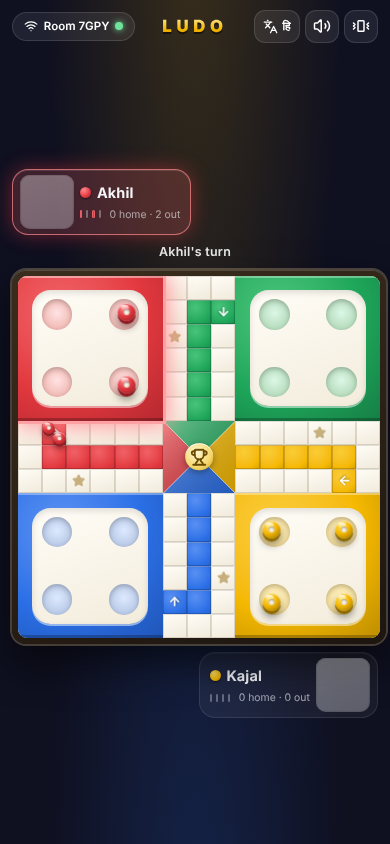
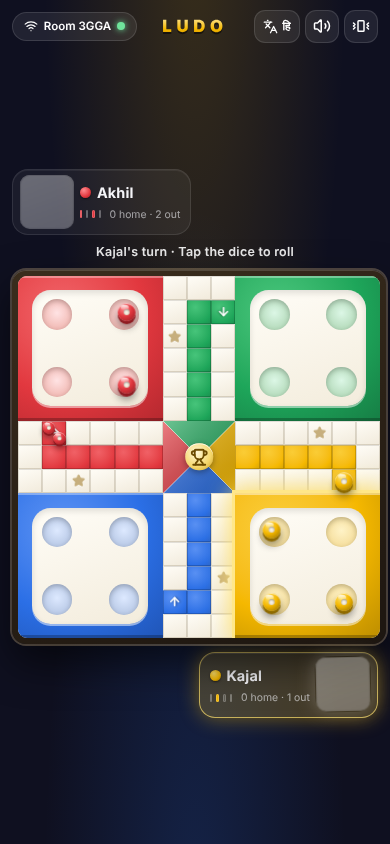
feat: join a friend's room from the app by host address
The app serves its own page from its own server, so a plain room code only
reaches rooms hosted on the same device. The LAN section now shows a host
address field when served locally; joining navigates to the host's server
(http://<ip>:7878/?room=CODE&name=...) which auto-joins on load. A hint explains
this when a join fails locally. lan-check covers the flow with a second server.

Claude-Session: https://claude.ai/code/session_013hCGS2KGtQcJGiiJ6uYKck

Changed region(s): [[0.0, 0.1848, 0.7692, 0.5237], [0.4923, 0.5545, 1.0, 0.8626], [0.2154, 0.0, 0.2769, 0.0616]]

diff --git a/ui/src/components/screens/SetupScreen.vue b/ui/src/components/screens/SetupScreen.vue
@@ -1,12 +1,12 @@
 <script setup lang="ts">
-import { computed, reactive, ref } from 'vue'
+import { computed, onMounted, reactive, ref } from 'vue'
 import { Bot, Languages, LogIn, Play, RotateCcw, User, Users, Wifi } from 'lucide-vue-next'
 import { COLORS, type NewPlayerSpec, type PlayerColor } from '@/engine'
 import { colorVars } from '@/utils/colors'
 import { useSettingsStore } from '@/stores/settings'
 import { useI18n } from '@/i18n'
 
-const props = defineProps<{ canResume: boolean; rejoinCode?: string; prefillRoom?: string; lanError?: string }>()
+const props = defineProps<{ canResume: boolean; rejoinCode?: string; prefillRoom?: string; prefillName?: string; lanError?: string }>()
 const emit = defineEmits<{
   start: [players: NewPlayerSpec[]]
   resume: []
@@ -28,9 +28,42 @@ const seatsFor: Record<number, PlayerColor[]> = {
 const seats = computed(() => seatsFor[count.value])
 
 const names = reactive<Record<PlayerColor, string>>({ red: '', green: '', yellow: '', blue: '' })
-const lanName = ref('')
+const lanName = ref(props.prefillName ?? '')
 const lanCode = ref(props.prefillRoom ?? '')
+const hostAddr = ref('')
 const canJoin = computed(() => lanCode.value.trim().length === 4)
+/** The Tauri app and `cargo run` serve from this device; a friend's room lives on *their* server. */
+const servedLocally = /^(127\.0\.0\.1|localhost|\[::1\])$/.test(location.hostname)
+
+/**
+ * Joining a room that lives on another phone means loading that phone's page.
+ * Accepts "192.168.43.1", "192.168.43.1:7878" or a full URL pasted from the QR.
+ */
+function join() {
+  const code = lanCode.value.trim().toUpperCase()
+  const addr = hostAddr.value.trim()
+  if (addr) {
+    const withScheme = /^https?:\/\//i.test(addr) ? addr : `http://${addr}`
+    try {
+      const u = new URL(withScheme)
+      if (!u.port && !/^https?:\/\/[^/]+:\d+/.test(withScheme)) u.port = '7878'
+      if (u.origin !== location.origin) {
+        u.pathname = '/'
+        u.search = `?room=${code}&name=${encodeURIComponent(lanName.value)}`
+        location.href = u.toString()
+        return
+      }
+    } catch {
+      /* fall through and try the local server */
+    }
+  }
+  emit('join', code, lanName.value)
+}
+
+onMounted(() => {
+  // Arrived via a host's QR/link with a name already chosen: join straight away.
+  if (props.prefillRoom && props.prefillName) emit('join', props.prefillRoom, props.prefillName)
+})
 const bots = reactive<Record<PlayerColor, boolean>>({ red: false, green: false, yellow: false, blue: false })
 
 function start() {
@@ -112,18 +145,33 @@ function start() {
           class="lan__btn"
           :disabled="!canJoin"
           data-action="lan-join"
-          @click="emit('join', lanCode, lanName)"
+          @click="join"
         >
           <LogIn :size="15" />
           {{ t('joinRoom') }}
         </button>
       </div>
+      <input
+        v-if="servedLocally"
+        v-model.trim="hostAddr"
+        class="lan__input"
+        :placeholder="t('hostAddress')"
+        inputmode="url"
+        data-lan-host
+        autocomplete="off"
+      >
       <p
         v-if="props.lanError"
         class="lan__error"
         data-lan-error
       >
         {{ t('lanError', { message: props.lanError }) }}
+      </p>
+      <p
+        v-if="servedLocally && (props.lanError || !hostAddr)"
+        class="lan__hint"
+      >
+        {{ t('joinLocalHint') }}
       </p>
     </div>
 
@@ -411,6 +459,12 @@ function start() {
   margin: 0;
   font-size: 0.75rem;
   color: #ff8a8e;
+}
+.lan__hint {
+  margin: 0;
+  font-size: 0.72rem;
+  line-height: 1.35;
+  opacity: 0.75;
 }
 .chk {
   display: flex;

diff --git a/ui/src/i18n/index.ts b/ui/src/i18n/index.ts
@@ -67,6 +67,8 @@ const en = {
   needTwo: 'Need at least 2 players',
   hostOnly: 'Only the host can start',
   lanError: 'Could not join: {message}',
+  hostAddress: 'Host address (shown under the QR)',
+  joinLocalHint: 'This app runs its own server. To join a friend\'s room, enter the address shown under their QR, or scan their QR with the camera.',
   ipUnknown: 'Could not detect this phone\'s Wi-Fi address. Find it under Wi-Fi / hotspot settings and share http://<ip>:7878 with the room code.',
 }
 
@@ -137,6 +139,8 @@ const hi: Record<I18nKey, string> = {
   needTwo: 'कम से कम 2 खिलाड़ी चाहिए',
   hostOnly: 'सिर्फ होस्ट शुरू कर सकता है',
   lanError: 'जुड़ नहीं पाए: {message}',
+  hostAddress: 'होस्ट का पता (QR के नीचे लिखा)',
+  joinLocalHint: 'ये ऐप अपना सर्वर चलाता है। दोस्त के रूम में जुड़ने के लिए उनके QR के नीचे लिखा पता डालें, या कैमरे से उनका QR स्कैन करें।',
   ipUnknown: 'इस फोन का वाई-फाई पता नहीं मिला। वाई-फाई / हॉटस्पॉट सेटिंग में IP देखें और http://<ip>:7878 रूम कोड के साथ शेयर करें।',
 }
 

diff --git a/ui/src/App.vue b/ui/src/App.vue
@@ -35,6 +35,7 @@ const lobbyOpen = ref(false)
 const lobbyBots = ref(0)
 const showDebug = computed(() => DEBUG || settings.debugToolbar)
 const prefillRoom = new URLSearchParams(location.search).get('room')?.toUpperCase() ?? ''
+const prefillName = new URLSearchParams(location.search).get('name') ?? ''
 const rejoinCode = ref(net.savedSeat()?.code ?? '')
 
 /** Seat colours for N players: 2P is the classic diagonal. */
@@ -193,6 +194,7 @@ const lobbyUrl = computed(() => net.joinUrl || `${location.protocol}//${location
     :can-resume="game.hasSave"
     :rejoin-code="rejoinCode"
     :prefill-room="prefillRoom"
+    :prefill-name="prefillName"
     :lan-error="lanError"
     @start="start"
     @resume="resume"
